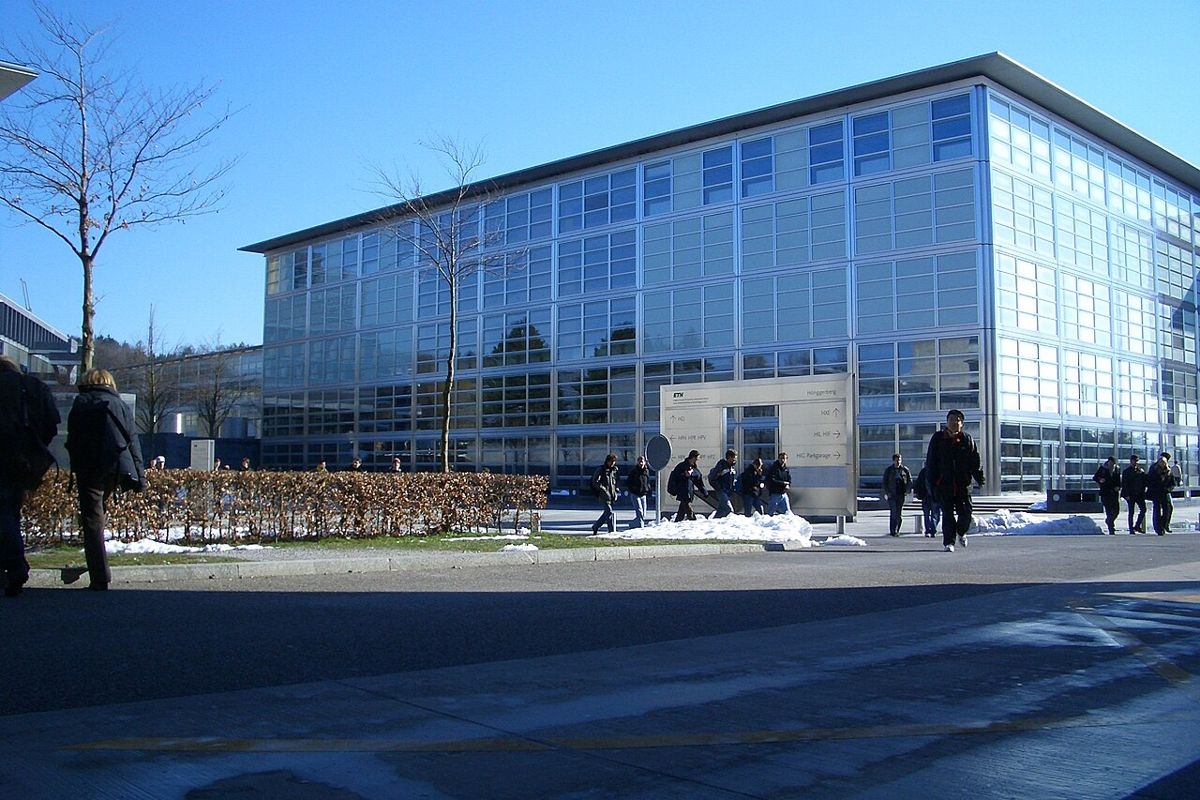
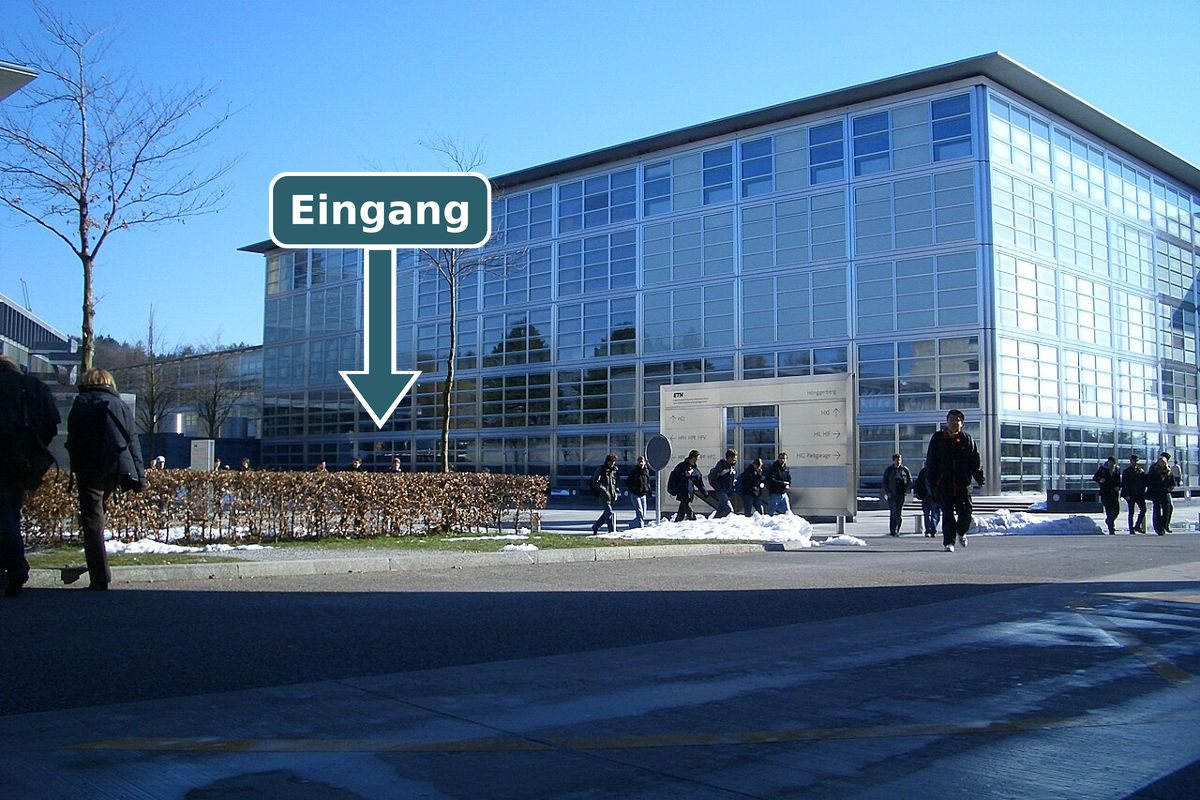
Eingang im Gebäudefoto eingezeichnet

Changed region(s): [[0.2158, 0.1875, 0.4317, 0.5312]]

diff --git a/index.html b/index.html
@@ -145,7 +145,7 @@ footer a{color:inherit}
     </div>
     <figure class="hero-photo">
       <img src="img/hci.jpg" width="1200" height="800" alt="Das Gebäude HCI: ein grosses, mehrstöckiges Glasgebäude auf dem Campus Hönggerberg.">
-      <figcaption>Gebäude HCI, G (2. OG), Hörsaal G 7</figcaption>
+      <figcaption>Gebäude HCI mit Eingang. Darin: Stockwerk G (2. OG), Hörsaal G 7</figcaption>
     </figure>
   </div>
 </header>
